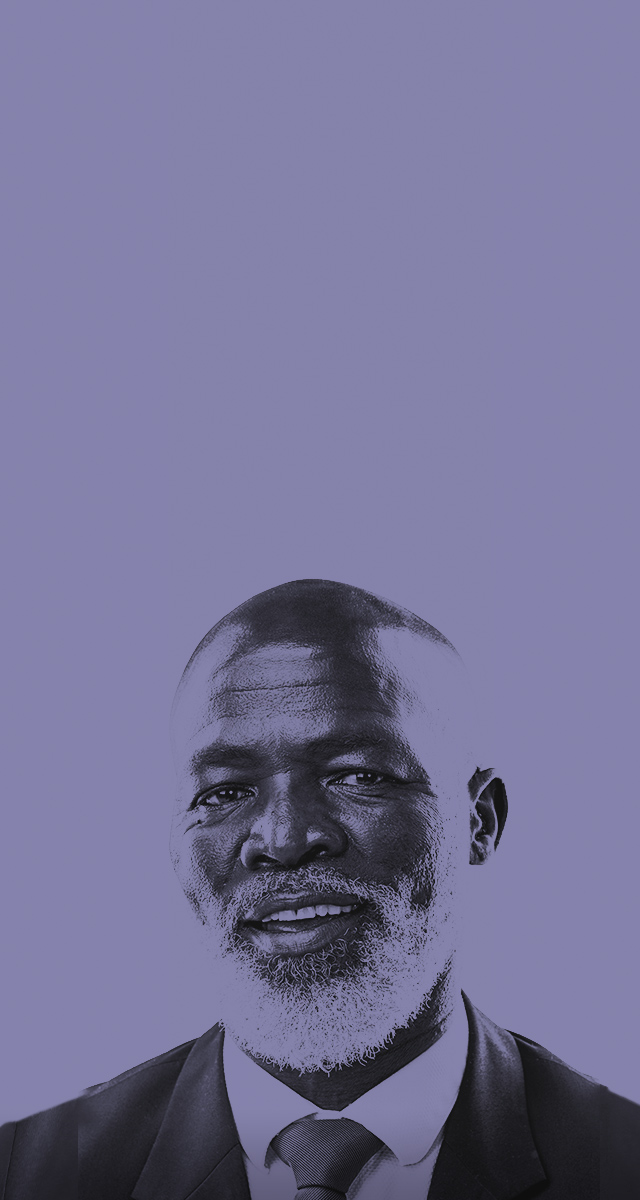
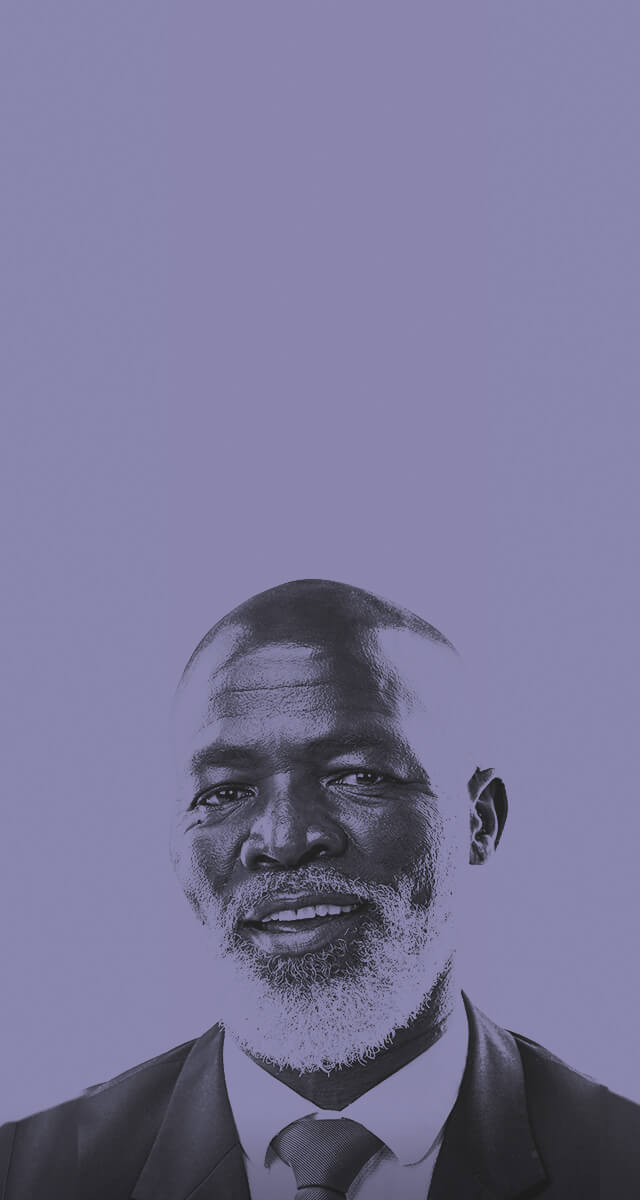
First draft of Speak 160x600

diff --git a/CLG35668_Speak_Unbranded_160x600/index.html b/CLG35668_Speak_Unbranded_160x600/index.html
@@ -53,13 +53,13 @@
             height: 600px;
             overflow:hidden;
             opacity: 1;
-            background-color: #6f8db3;
+            background-color: #8582ab;
         }
 
         .face_background{
             position: absolute;
             top: 0;
-            left: -70px;
+            left: -80px;
             width: 320px;
             height: 600px;
             border:0;
@@ -72,7 +72,7 @@
             left: 0;
             width: 160px;
             height: 600px;
-            background:url('./images/hear_spritesheet_160x600b.png') no-repeat;
+            background:url('./images/speak_spritesheet_160x600b.png') no-repeat;
             background-position:0px 0px;
             opacity: 0;
             overflow:hidden;
@@ -85,7 +85,7 @@
             width: 160px;
             height: 600px;
             opacity: 0;
-            background-color: #6f8db3;
+            background-color: #8582ab;
         }
 
         .frame_2_copy, .frame_3_animated_svgs, .frame_3_tear, 
@@ -124,7 +124,7 @@
             width: 160px;
             height:140px;
             opacity: 0;
-            background-image: linear-gradient(rgba(80,102,130,0), rgba(80,102,130,1));
+            background-image: linear-gradient(rgba(109,106,141,0), rgba(109,106,141,1));
         }
 
         .banner-border {
@@ -190,10 +190,10 @@
 
             function preload() {
                 images = [
-                    './images/hear_face_160x600b.jpg',
-                    './images/hear_spritesheet_160x600b.png',
-                    './images/hear_frame2_copy_160x600b.png',
-                    './images/hear_frame4_art_160x600b.png',
+                    './images/speak_face_160x600b.jpg',
+                    './images/speak_spritesheet_160x600b.png',
+                    './images/speak_frame2_copy_160x600b.png',
+                    './images/speak_frame4_art_160x600b.png',
                     './images/learn_how_w_b_160x600b.png',
                     './images/learn_how_b_w_160x600b.png',
                 ];
@@ -234,16 +234,16 @@
              .to(tearSVG, .4, {y:23, x:0, ease: Power1.easeInOut})
              .addLabel('secondDrop')
 
-             TweenMax.set(faceBackground, {scale: 1.7,transformOrigin: "38% 95%"});
+             TweenMax.set(faceBackground, {scale: 1.7,transformOrigin: "15% 100%"});
              TweenMax.set([see_svg, hear_svg, speak_svg, exit2], {autoAlpha:0});
              const tl = new TimelineMax();
 
               tl
               .to(faceBackground, .5, {opacity: 1, ease: Sine.easeInOut})
-              .to(faceBackground, .8, {scale: 1, opacity: 1, ease: Sine.easeInOut}, '+=1.5')
-              .to(frame2Copy, 1, {opacity: 1, ease: Power1.easeOut}, '+=.1')
-              .to(tearSpritesheet, .6, {opacity:1, backgroundPosition:"0 -3600px", ease:SteppedEase.config(6)},'+=.1')
-              .to([frame3StaticSvgLogo, frame3AnimatedSvgs, frame3Tear, bottomGradient], 1.2, {opacity: 1, ease: Sine.easeInOut}, '+=2.7')
+              .to(faceBackground, .8, {scale: 1, opacity: 1, ease: Sine.easeInOut}, '+=1.4')
+              .to(frame2Copy, 1, {opacity: 1, ease: Power1.easeOut}, '+=.4')
+              .to(tearSpritesheet, .6, {opacity:1, backgroundPosition:"0 -3600px", ease:SteppedEase.config(6)}, '+=.5')
+              .to([frame3StaticSvgLogo, frame3AnimatedSvgs, frame3Tear, bottomGradient], 1, {opacity: 1, ease: Sine.easeInOut}, '+=2.7')
               .to(seeSVG, .5, {autoAlpha: 1, ease: Power1.easeOut},'+=.3')
               .to(seeSVG, .4, {autoAlpha: 0, ease: Power1.easeOut},'+=.5')
 
@@ -318,7 +318,7 @@
             </div>
             <div class="frame_3_tear">
                 <svg xmlns="http://www.w3.org/2000/svg" viewBox="0 0 160 600">
-                    <g id="tear_svg" data-name="tear original copy"><path d="M115.78,250.49c0,1.32-1,2.52-2.47,4l-.42.47a6.35,6.35,0,0,0-1.89,4.22,5.43,5.43,0,0,0,1.69,4,5.48,5.48,0,0,0,3.14,1.59,5.73,5.73,0,0,0,1.75,0,6.67,6.67,0,0,0,3.17-1.6,5.43,5.43,0,0,0,1.69-4,6.35,6.35,0,0,0-1.89-4.22l-.42-.47c-1.37-1.29-2.39-2.64-2.42-4.07Z" style="fill:#6f8db3"/><path d="M117.52,257.8a2.23,2.23,0,0,0-.09.32,1.51,1.51,0,0,0,0,.67,1.36,1.36,0,0,0,.84,1c.7.27,1.71,0,2.09-1.31a5.23,5.23,0,0,0-1.34-4.15C119.84,256.35,118,256.51,117.52,257.8Z" style="fill:#fff"/></g>
+                    <g id="tear_svg" data-name="tear original copy"><path d="M115.78,250.49c0,1.32-1,2.52-2.47,4l-.42.47a6.35,6.35,0,0,0-1.89,4.22,5.43,5.43,0,0,0,1.69,4,5.48,5.48,0,0,0,3.14,1.59,5.73,5.73,0,0,0,1.75,0,6.67,6.67,0,0,0,3.17-1.6,5.43,5.43,0,0,0,1.69-4,6.35,6.35,0,0,0-1.89-4.22l-.42-.47c-1.37-1.29-2.39-2.64-2.42-4.07Z" style="fill:#8582ab"/><path d="M117.52,257.8a2.23,2.23,0,0,0-.09.32,1.51,1.51,0,0,0,0,.67,1.36,1.36,0,0,0,.84,1c.7.27,1.71,0,2.09-1.31a5.23,5.23,0,0,0-1.34-4.15C119.84,256.35,118,256.51,117.52,257.8Z" style="fill:#fff"/></g>
                     <g id="Bounding_Box" data-name="Bounding Box"><rect width="160" height="600" style="fill:none"/></g>
                 </svg>
             </div>

diff --git a/CLG35668_See_Unbranded_160x600/index.html b/CLG35668_See_Unbranded_160x600/index.html
@@ -241,9 +241,9 @@
               tl
               .to(faceBackground, .5, {opacity: 1, ease: Sine.easeInOut})
               .to(faceBackground, .8, {scale: 1, opacity: 1, ease: Sine.easeInOut}, '+=1')
-              .to(frame2Copy, 1, {opacity: 1, ease: Power1.easeInOut}, '-=.1')
+              .to(frame2Copy, 1, {opacity: 1, ease: Power1.easeOut}, '+=.2')
               .to(tearSpritesheet, .5, {opacity:1, backgroundPosition:"0 -3600px", ease:SteppedEase.config(6)})
-              .to([frame3StaticSvgLogo, frame3AnimatedSvgs, frame3Tear, bottomGradient], 1, {opacity: 1, ease: Sine.easeInOut}, '+=2.3')
+              .to([frame3StaticSvgLogo, frame3AnimatedSvgs, frame3Tear, bottomGradient], 1, {opacity: 1, ease: Sine.easeInOut}, '+=2.5')
               .to(seeSVG, .5, {autoAlpha: 1, ease: Power1.easeOut},'+=.3')
               .to(seeSVG, .4, {autoAlpha: 0, ease: Power1.easeOut},'+=.5')
 
